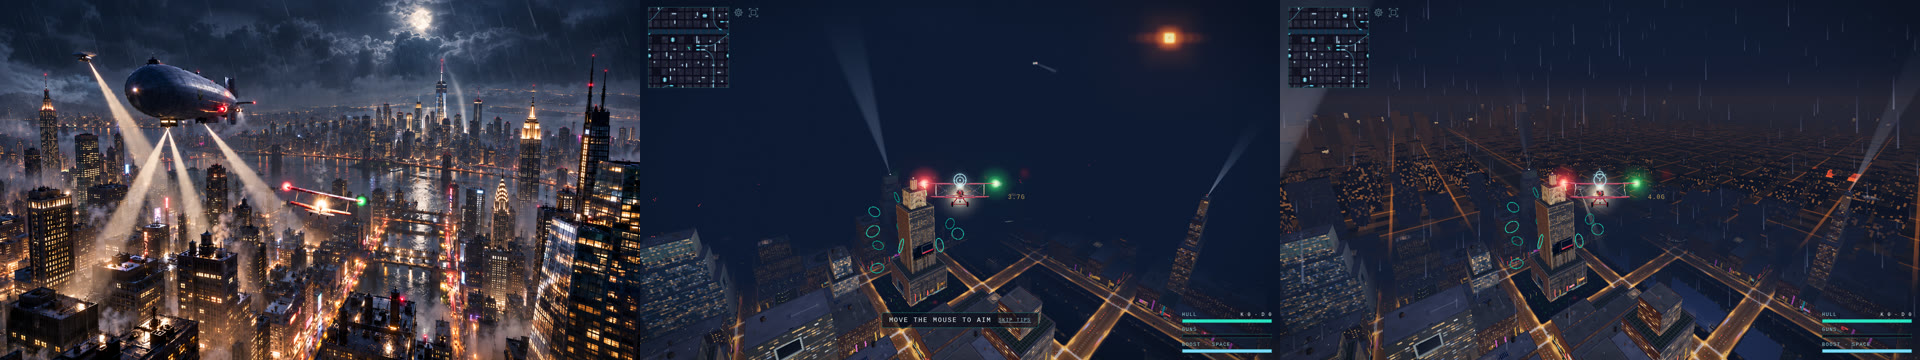
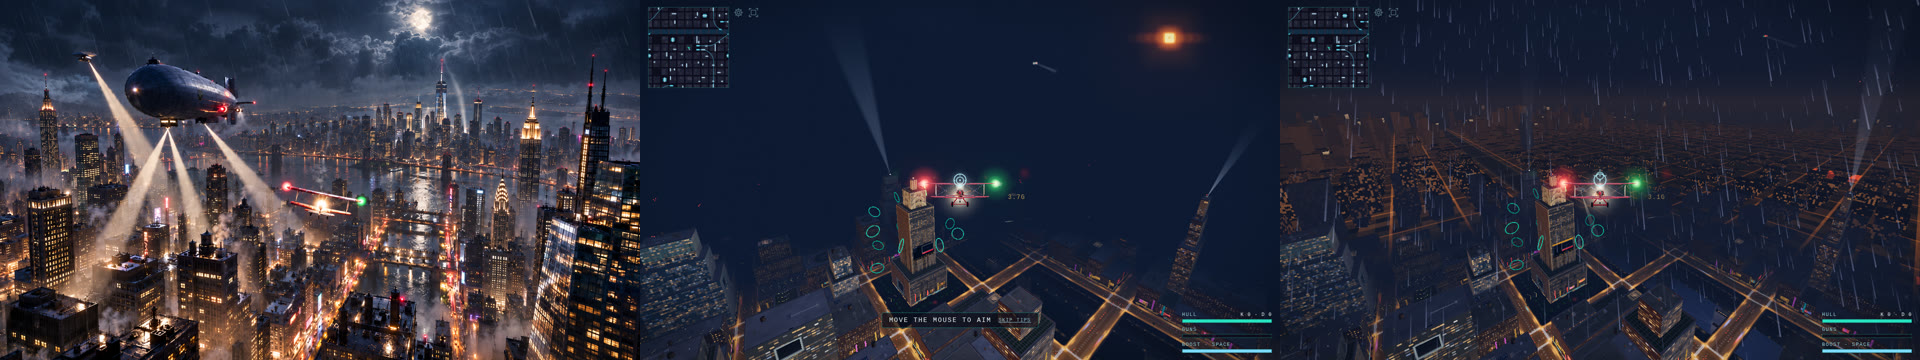
docs(L2): final before/after sheets, probes

Changed region(s): [[0.6562, 0.3361, 1.0, 1.0], [0.6562, 0.0, 0.7188, 0.4583], [0.9688, 0.9778, 1.0, 1.0]]

diff --git a/docs/stormlit-l2/README.md b/docs/stormlit-l2/README.md
@@ -15,10 +15,11 @@ far field and the horizon, not the near-city weather.
 |---|---|
 | `reference-wide.jpg` | New view: 300 m over the river, looking along it. Before, the city stopped at the 800 m fog limit against an empty navy sky. After, the river runs on into the far city (waterfront lamps, bridge light chains), the street grid continues to the horizon, the far towers stand as dark silhouettes with lit windows, and the horizon glows warm under the sky. |
 | `reference-wide-inferno.jpg` | The same view at burn 0.9: the far districts afire, the windows gone ember, the horizon glow hotter and redder. |
-| `high-overview.jpg` | Kilometres of city out to the horizon, where there was haze. |
+| `high-overview.jpg` | Kilometres of city out to the horizon, where there was haze (both in rain). |
 | `chase-rooftops.jpg` | From roof height, the far skyline stands above the near blocks right across the horizon, with a spire silhouette. |
 | `street-low.jpg` | In the canyon the far field is almost all hidden by the near blocks, as it should be. The only change is a warmer horizon at the street's end. |
-| `boss-closeup.jpg` | Behind the carrier, the far city and the glow fill what was empty fog. |
+| `boss-closeup.jpg` | Behind the carrier, the far city and the glow fill what was empty fog, with two spire silhouettes on the horizon. |
+| `moon.jpg` | Clear weather, toward the moon. The far skyline (spires, setbacks, lit windows) stands on a warm horizon band under the dark sky. Before, the city ended at the fog. (The before frame caught a lightning flash.) |
 
 ## Layered depth, and one deliberate gap
 
@@ -57,3 +58,26 @@ behind it.
   and hotter and redder with the inferno burn.
 
 The contract is written up in `concepts/invariants/sky-meets-fog.md`.
+
+## Probes (scratch scripts, not committed tests)
+
+- **The shell.** `farShellDistance` was sampled every 0.5 m over 800–6000 m.
+  It is strictly increasing and stays in [792.0, 797.4] m, always under the
+  fog limit.
+- **The lattice never pops.** A CPU-side flight drove the real
+  `FarSkyline.update` 3 km east at 7 m a frame, across the torus seam and 30
+  cell boundaries. Every frame it rebuilt each tower the way the vertex
+  shader does. Over 2.63 M tower checks there were **0 problems**:
+  - every tower within R was present exactly once;
+  - each one carried its own world cell's data;
+  - none moved in the unwrapped plane.
+- **Bloom.** The pre-bloom HDR light the far skyline adds (`__ab.hdrLuma`,
+  `AB_GALLERY_PROBE=farSkyline`) peaks at 0.33 in `high-overview` and 0.30
+  in `chase-rooftops`. It pushes **0 pixels** over the 0.72 threshold. The
+  shader also caps a tower's stacked lights at 0.7 before the far fade.
+- **The glow curve.** `cityGlowProfile` is 1.00 at the horizon, 0.29 at 5°
+  up and 0.013 at the fog stop (18°). It is 0.32 looking 20° down. The GLSL
+  carries the same two constants.
+- **Tower data.** A full window fill (10 404 cells) takes ~3 ms warm, and
+  one row (crossing a cell) ~0.25 ms on this box. 8 208 of the High window's
+  cells hold a tower: 1 175 over 150 m and 1 089 Art Deco setbacks.
